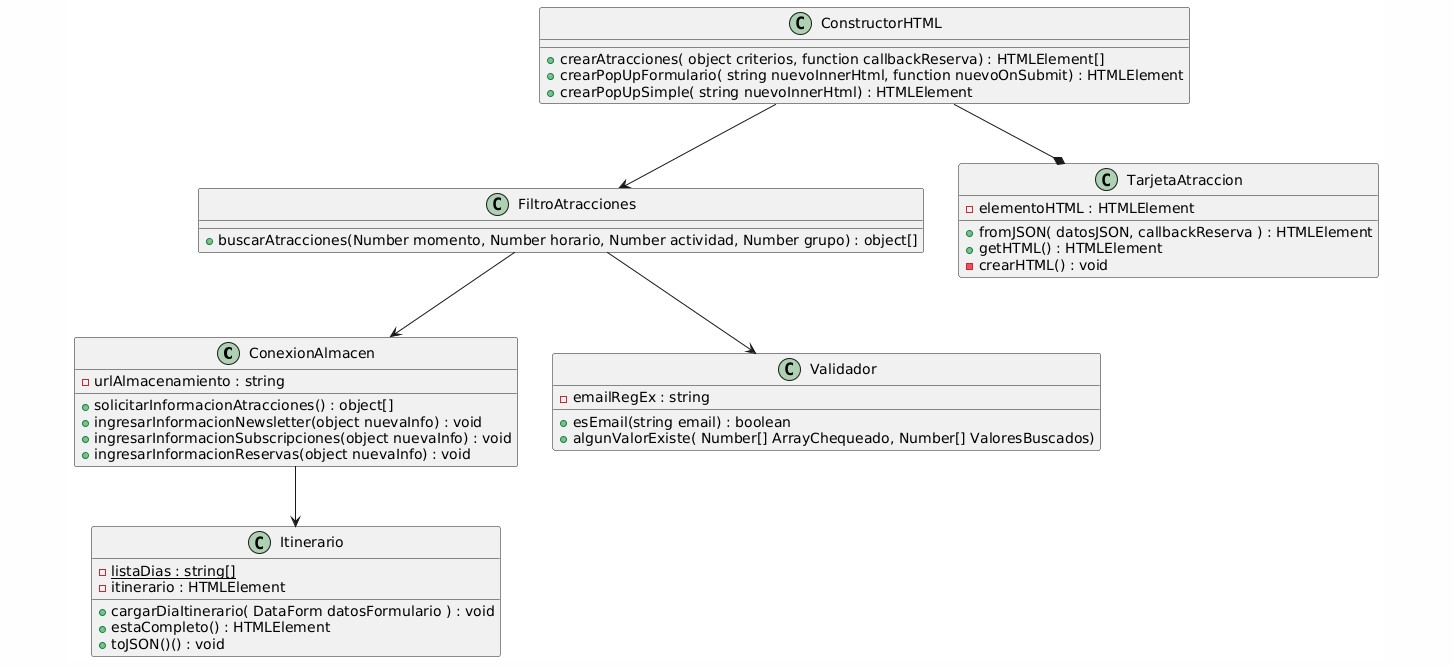
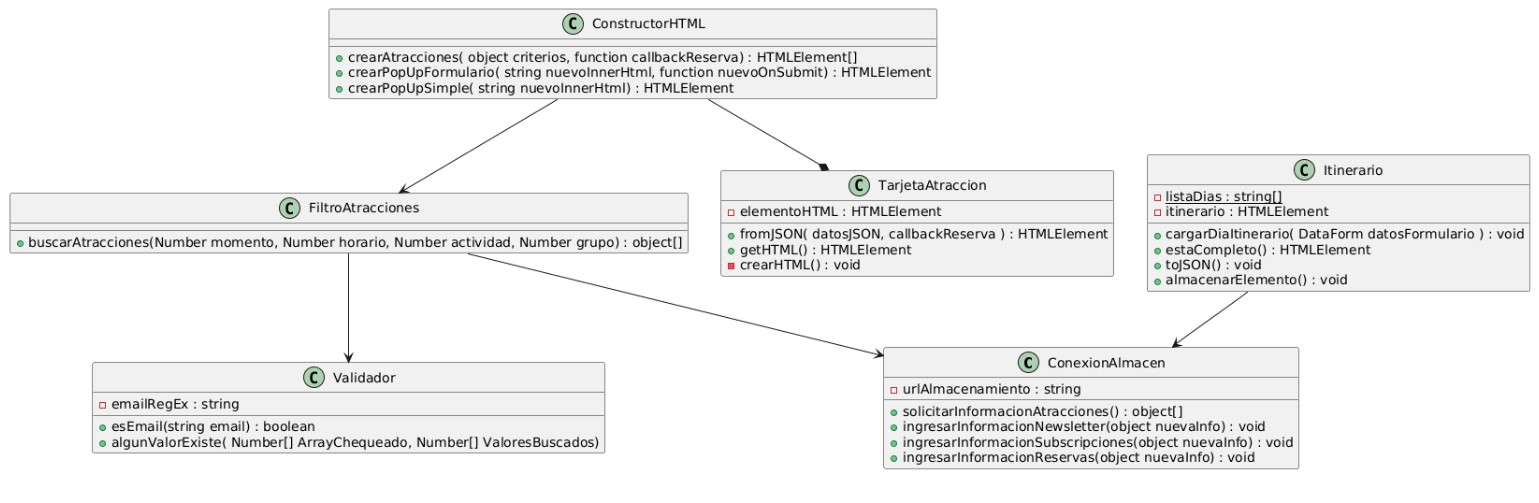
nuevas correccion en el codigo y diagramas

Changed region(s): [[0.0, 0.2386, 1.0, 1.0], [0.2168, 0.0, 0.8362, 0.2386]]

diff --git a/js/Itinerario.js b/js/Itinerario.js
@@ -1,3 +1,4 @@
+import conexionAlmacen from "./ConexionAlmacen.js";
 
 class Itinerario{
     listaDias = ["lunes", "martes", "miercoles", "jueves", "viernes", "sabado", "domingo"];
@@ -21,6 +22,10 @@ class Itinerario{
 
     toJSON(){
         JSON.parse(this.itinerario);
+    }
+    almacenarElemento(){
+        let datos = this.toJSON();
+        conexionAlmacen.ingresarInformacionItinerario(datos);
     }
 }
 

diff --git a/docs/04-diagramas/02-diagramas-de-clase/diagrama-clases-doc.md b/docs/04-diagramas/02-diagramas-de-clase/diagrama-clases-doc.md
@@ -9,27 +9,27 @@ Este documento presenta la informacion relacionada a las clases presentes en el 
     - **Relaciones:** Es accedido por script.js, mantiene relacion de Dependencia con el validador y conexionAlmacen
     - **Justificacion de diseño:** Esta clase es util para encapsular la logica de busqueda y filtrado de datos en los elementos almacenados
 * **Validador**
-    - **Descripcion:**
-    - **Responsabilidad:**
-    - **Relaciones:**
-    - **Justificacion de diseño:**
+    - **Descripcion:** Esta clase contiene funciones de validacion en general, como si es un email o si un valor existe en un array
+    - **Responsabilidad:** Se encarga de lo relacionado con validaciones de datos o verdades (por ej. este es un correo? si, no)
+    - **Relaciones:** Se relaciona con filtroAtracciones, ya que provee sus servicios para los datos ingresados en el filtro
+    - **Justificacion de diseño:** Encapsula y facilita funciones utiles para cualquier clase que necesite chequear sus datos
 * **ConexionAlmacen**
-    - **Descripcion:**
-    - **Responsabilidad:**
-    - **Relaciones:**
-    - **Justificacion de diseño:**
+    - **Descripcion:** Gestiona las conexiones con el almacenamiento interno del sistema
+    - **Responsabilidad:** Funciona como intermediario entre el sistema de guardado/acceso de datos y el sistema de clases, separandolo logicamente
+    - **Relaciones:** Se relaciona con FiltroAtracciones, proveyendo acceso a la informacion, y con TarjetaAtraccion e Itinerario con funciones de guardado
+    - **Justificacion de diseño:** Facilita la interaccion del sisetma con el sistema "externo" de guardado
 * **ConstructorHTML**
-    - **Descripcion:**
-    - **Responsabilidad:**
-    - **Relaciones:**
-    - **Justificacion de diseño:**
+    - **Descripcion:** Se encarga de contruir elementos html con informacion que reciba como parametros
+    - **Responsabilidad:** generar elementos HTML estando listos para que puedan ser ingresados al DOM
+    - **Relaciones:** Se relaciona con FiltroAtracciones (lo utiliza para generar las tarjetas html) y TarjetaAtraccion, que es el elemento que representa una tarjeta 
+    - **Justificacion de diseño:** Separa la creacion del HTML para elementos con formatos comunes como formularios, popups, etc.
 * **TarjetaAtraccion**
-    - **Descripcion:**
-    - **Responsabilidad:**
-    - **Relaciones:**
-    - **Justificacion de diseño:**
+    - **Descripcion:** Representa una tarjeta html, con su formato almacenado
+    - **Responsabilidad:** Almacena su informacion html y facilita su creacion, tambien se guarda a si mismo si se lo solicita
+    - **Relaciones:** Se relaciona con ConstructorHTML, ya que este es quien crea y maneja las tarjetas
+    - **Justificacion de diseño:** Contiene el codigo de creacion de una tarjeta y facilita su representacion
 * **Itinerario**
-    - **Descripcion:**
-    - **Responsabilidad:**
-    - **Relaciones:**
-    - **Justificacion de diseño:**
+    - **Descripcion:** Representa un itinerario completo, separado por dias
+    - **Responsabilidad:** Se encarga de gestionar el almacenamiento de los dias planeados y comentarios, tambien se guarda a si mismo si se lo solicita
+    - **Relaciones:** Se relaciona con ConexionAlmacen para el guardado, el resto de los procesos se comunican con script.js
+    - **Justificacion de diseño:** Facilita el almacenamiento de la informacion del itinerario y su guardado
